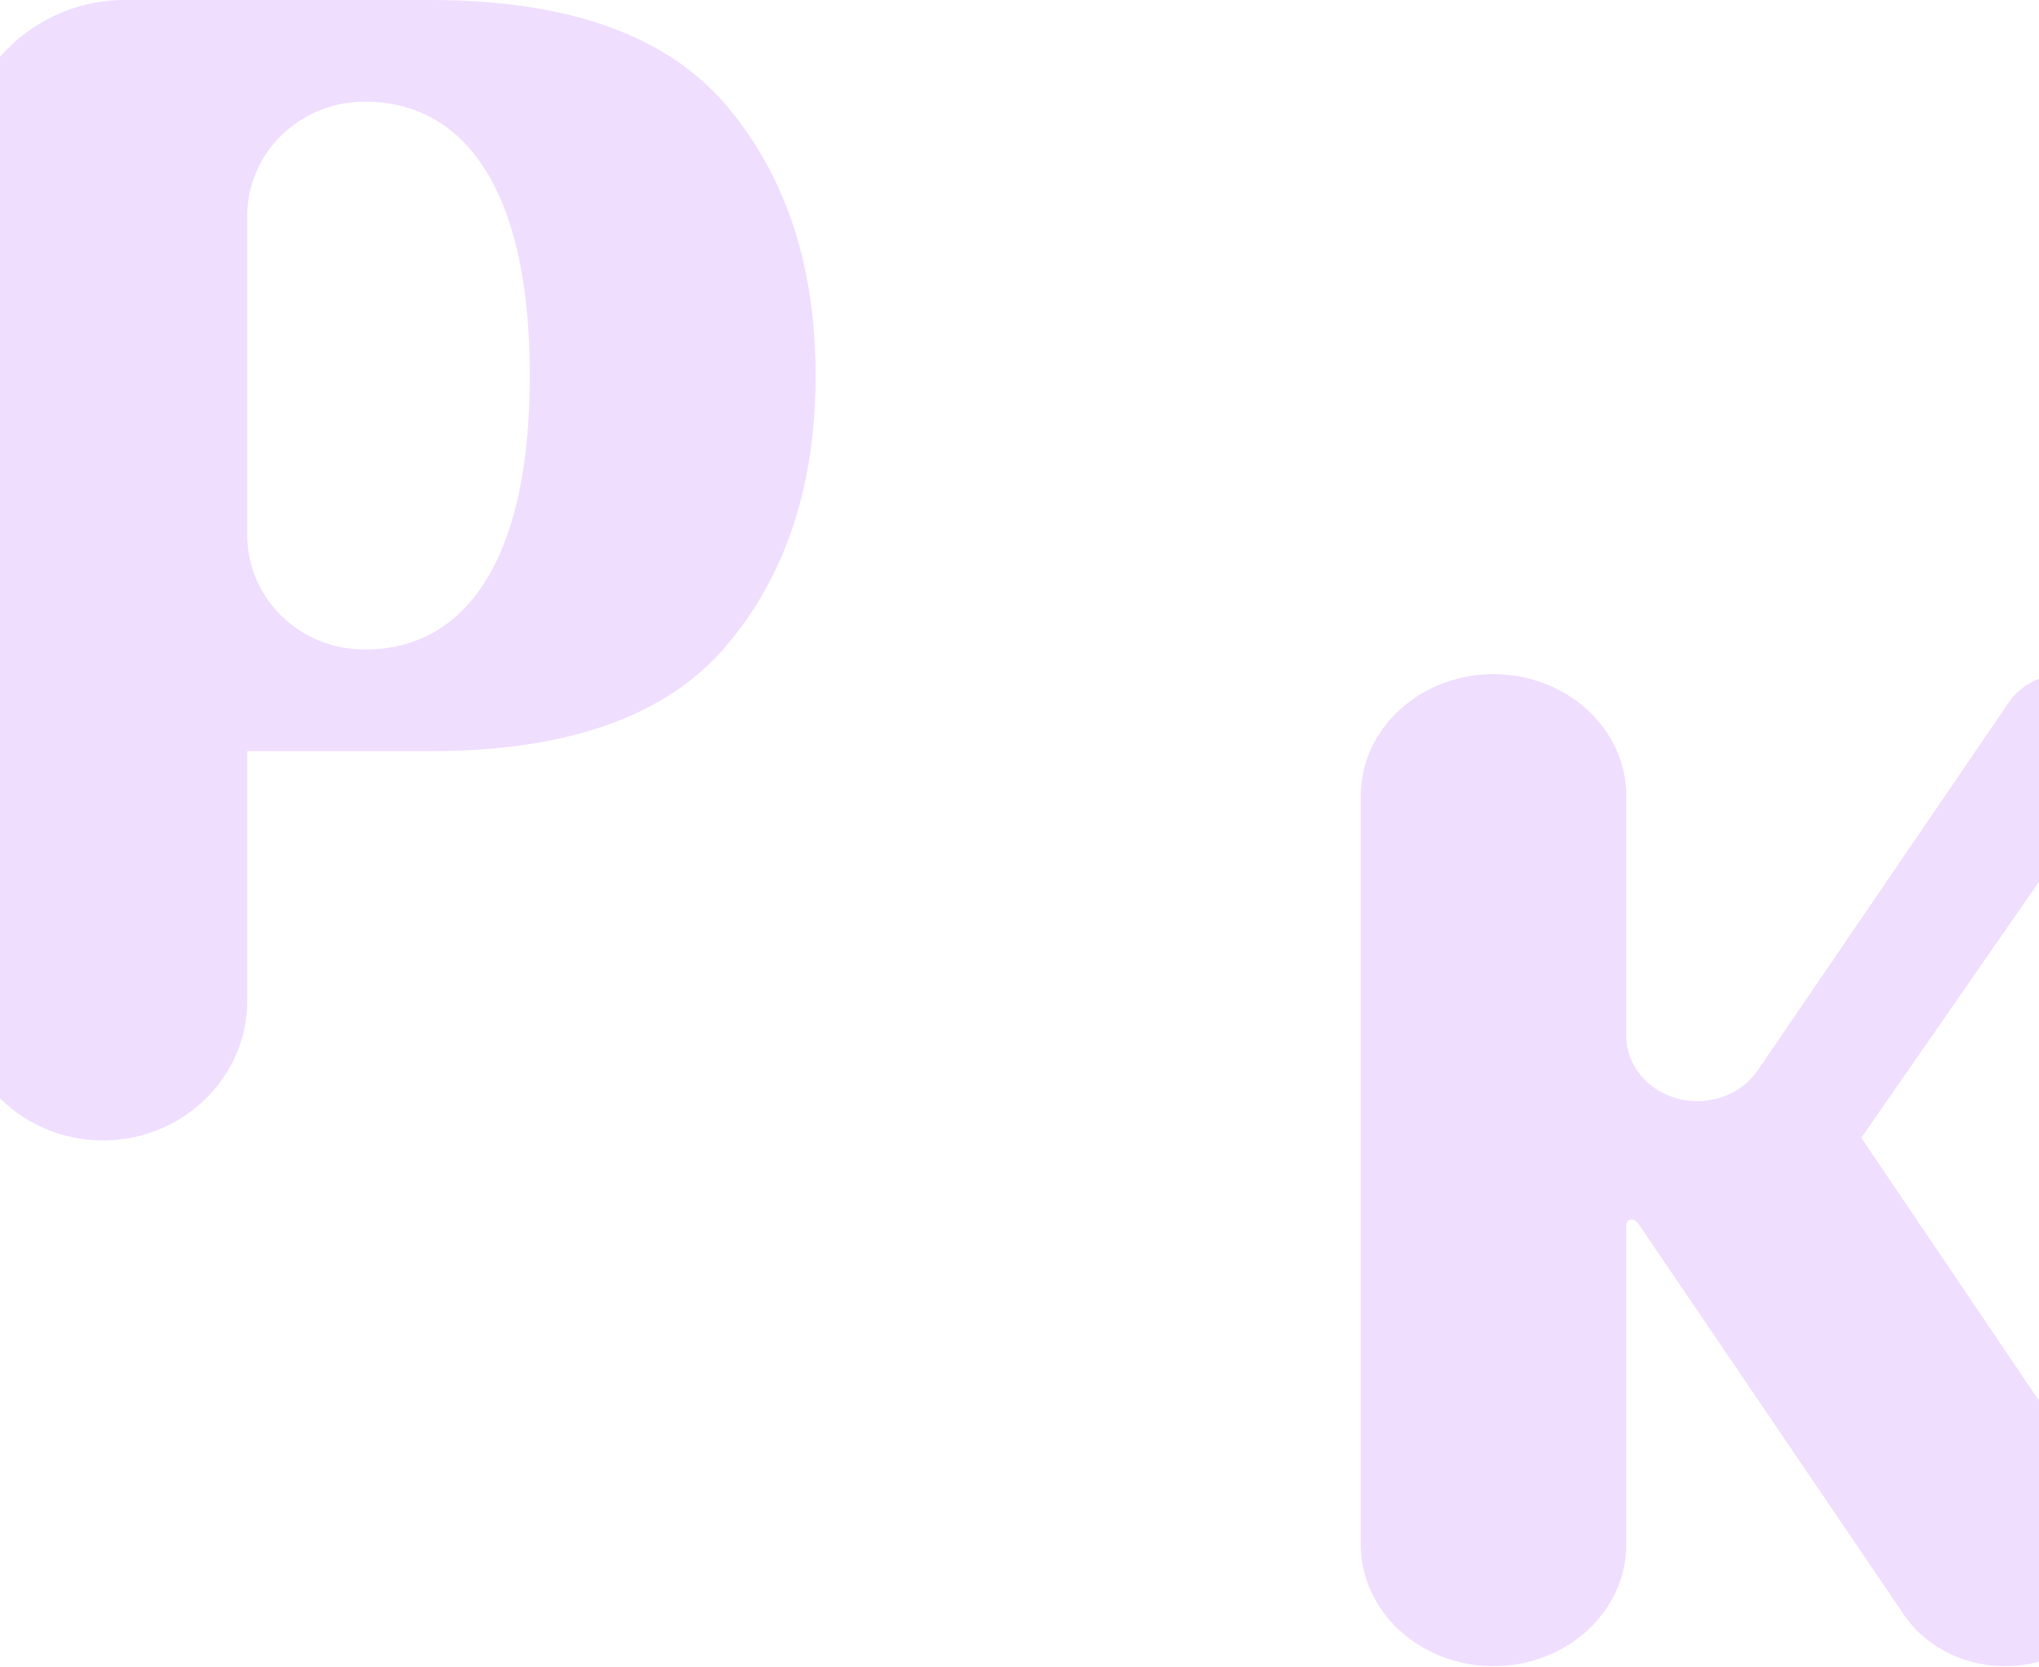
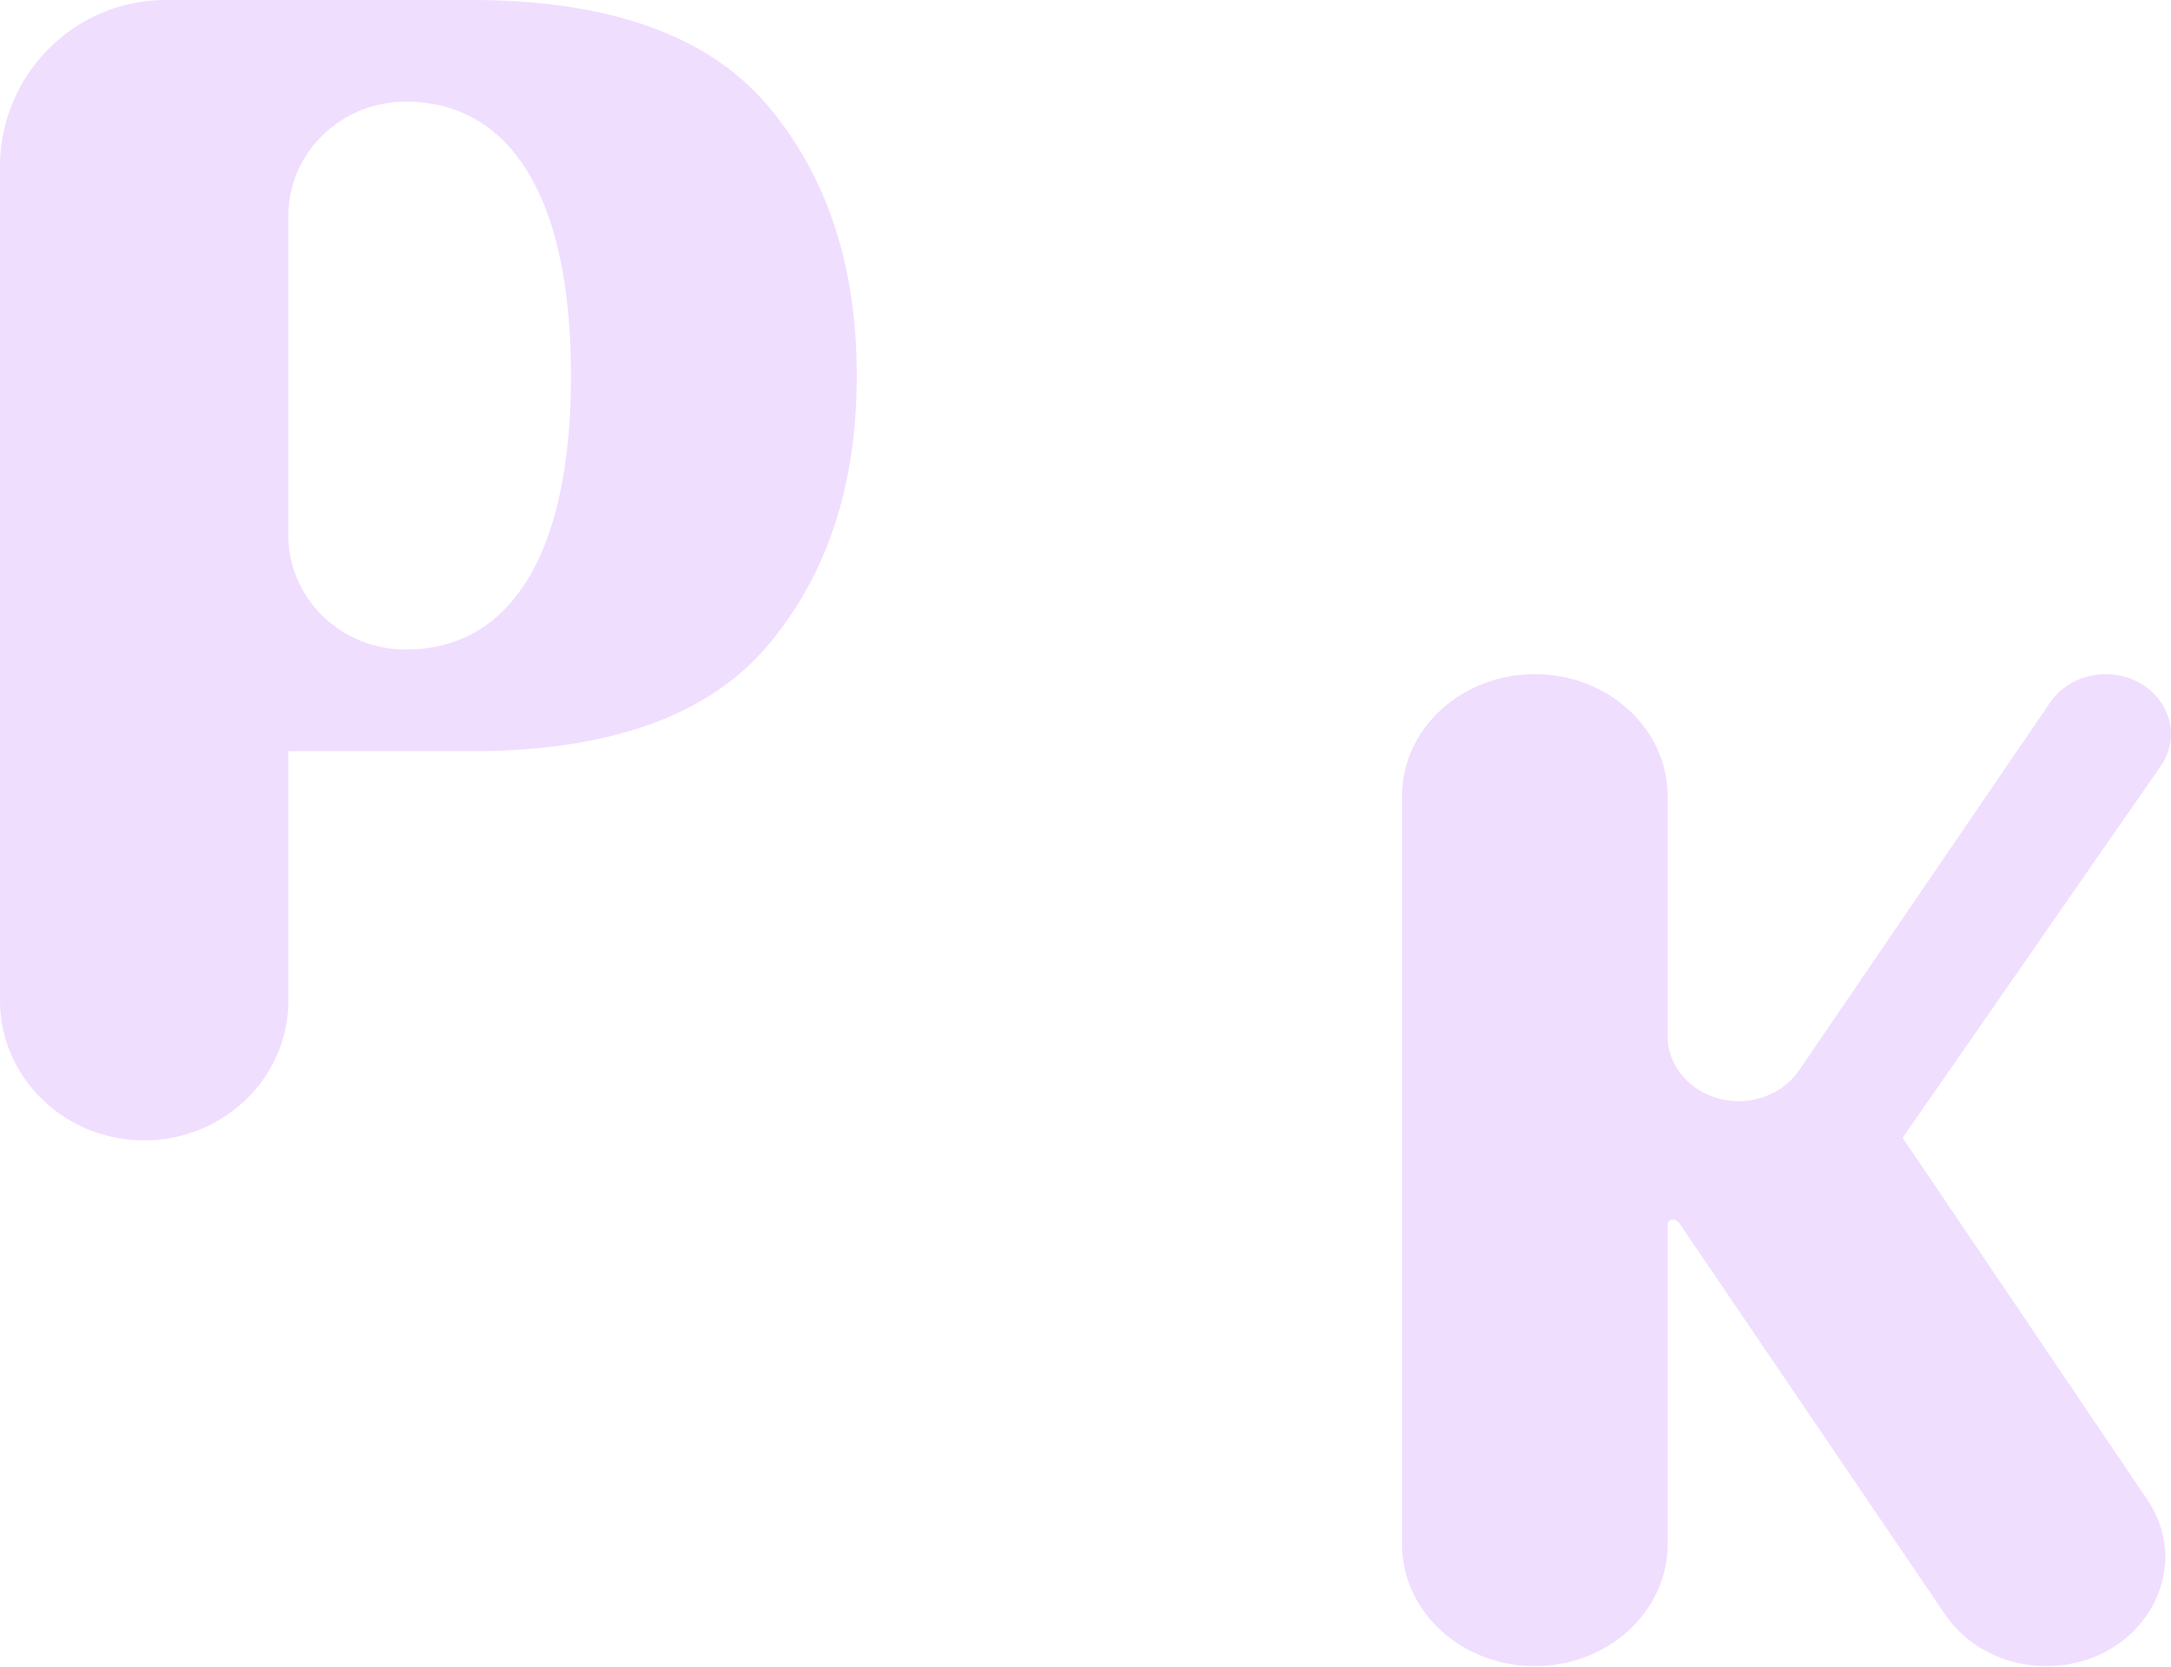
1.change pkbg img 2.background size   100%>> contain

diff --git a/Pop-up/pkWeb_引導&QRlightbox/css/sec5.css b/Pop-up/pkWeb_引導&QRlightbox/css/sec5.css
@@ -14,7 +14,7 @@
 	left: 0;
 	right: 0;
 	background: url(../image/pkbg.png) no-repeat top center;
-	background-size: 100%;
+	background-size:contain;
 	z-index: -1;
 	transform: translateY(-130px);
 }

diff --git a/Pop-up/pkWeb_微信QQ跳QRlightbox/css/sec5.css b/Pop-up/pkWeb_微信QQ跳QRlightbox/css/sec5.css
@@ -14,7 +14,7 @@
 	left: 0;
 	right: 0;
 	background: url(../image/pkbg.png) no-repeat top center;
-	background-size: 100%;
+	background-size:contain;
 	z-index: -1;
 	transform: translateY(-130px);
 }

diff --git a/Pop-up/pkWeb_忘記密碼lightbox/css/sec5.css b/Pop-up/pkWeb_忘記密碼lightbox/css/sec5.css
@@ -14,7 +14,7 @@
 	left: 0;
 	right: 0;
 	background: url(../image/pkbg.png) no-repeat top center;
-	background-size: 100%;
+	background-size:contain;
 	z-index: -1;
 	transform: translateY(-130px);
 }

diff --git a/Pop-up/pkWeb_掃描成功lightbox/css/sec5.css b/Pop-up/pkWeb_掃描成功lightbox/css/sec5.css
@@ -14,7 +14,7 @@
 	left: 0;
 	right: 0;
 	background: url(../image/pkbg.png) no-repeat top center;
-	background-size: 100%;
+	background-size:contain;
 	z-index: -1;
 	transform: translateY(-130px);
 }

diff --git a/Pop-up/pkWeb_登入lightbox/css/sec5.css b/Pop-up/pkWeb_登入lightbox/css/sec5.css
@@ -14,7 +14,7 @@
 	left: 0;
 	right: 0;
 	background: url(../image/pkbg.png) no-repeat top center;
-	background-size: 100%;
+	background-size:contain;
 	z-index: -1;
 	transform: translateY(-130px);
 }

diff --git a/Pop-up/pkWeb_聯絡我們lightbox/css/sec5.css b/Pop-up/pkWeb_聯絡我們lightbox/css/sec5.css
@@ -14,7 +14,7 @@
 	left: 0;
 	right: 0;
 	background: url(../image/pkbg.png) no-repeat top center;
-	background-size: 100%;
+	background-size:contain;
 	z-index: -1;
 	transform: translateY(-130px);
 }

diff --git a/Pop-up/pkWeb_註冊lightbox/css/sec5.css b/Pop-up/pkWeb_註冊lightbox/css/sec5.css
@@ -14,7 +14,7 @@
 	left: 0;
 	right: 0;
 	background: url(../image/pkbg.png) no-repeat top center;
-	background-size: 100%;
+	background-size:contain;
 	z-index: -1;
 	transform: translateY(-130px);
 }

diff --git a/Pop-up/pkWeb_預約&送出成功lightbox/css/sec5.css b/Pop-up/pkWeb_預約&送出成功lightbox/css/sec5.css
@@ -14,7 +14,7 @@
 	left: 0;
 	right: 0;
 	background: url(../image/pkbg.png) no-repeat top center;
-	background-size: 100%;
+	background-size:contain;
 	z-index: -1;
 	transform: translateY(-130px);
 }

diff --git a/pkWeb_已登入/css/sec5.css b/pkWeb_已登入/css/sec5.css
@@ -14,7 +14,7 @@
 	left: 0;
 	right: 0;
 	background: url(../image/pkbg.png) no-repeat top center;
-	background-size: 100%;
+	background-size:contain;
 	z-index: -1;
 	transform: translateY(-130px);
 }

diff --git a/pkWeb_未登入/css/sec5.css b/pkWeb_未登入/css/sec5.css
@@ -14,7 +14,7 @@
 	left: 0;
 	right: 0;
 	background: url(../image/pkbg.png) no-repeat top center;
-	background-size: 100%;
+	background-size:contain;
 	z-index: -1;
 	transform: translateY(-130px);
 }
